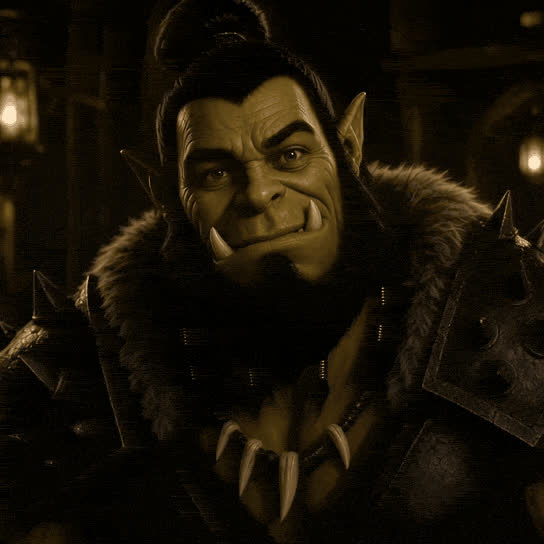
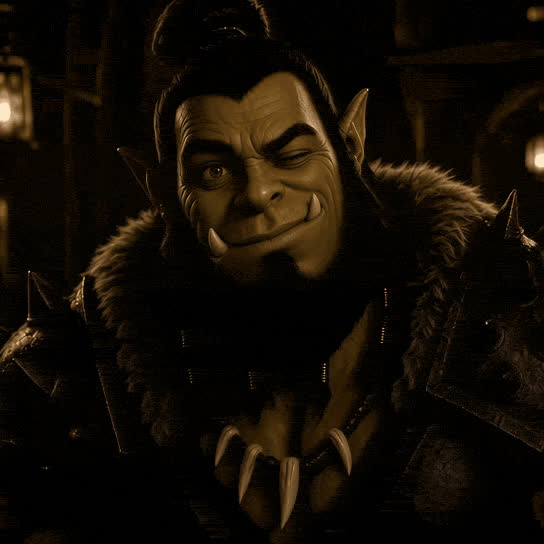
Reshoot Wink so the one-eye wink holds before the smile.

diff --git a/scripts/imagine-video.ts b/scripts/imagine-video.ts
@@ -20,6 +20,9 @@ const MODEL = "grok-imagine-video-1.5";
 const SOURCE_DIR = "/Users/orcdev/Downloads/ai images";
 const VIDEO_DIR = "/tmp/orc-grok-videos";
 const DURATION_SECONDS = 4;
+const DURATIONS: Record<string, number> = {
+  wink: 8,
+};
 const POLL_MS = 5000;
 const SKIP_SLUGS = new Set(["orc-smile"]);
 
@@ -118,7 +121,7 @@ const PROMPTS: Record<string, string> = {
   wave:
     "The orc waves hello with his raised hand, a warm friendly smile holding, a couple of waves. Locked camera.",
   wink:
-    "Both eyes start open, a small smile. Then only one eyelid closes for a short wink while the other eye stays open. Then both eyes open and he holds a warm smile. Not a blink, not both eyes closing. Only one wink. Locked camera, no zoom.",
+    "This frame is already a one-eye wink. Hold that exact wink for most of the clip: the closed eye stays fully shut, the open eye stays wide open and looks at the camera, sly smile holding. Only near the end, open the closed eye so both eyes are open and he smiles. Never close the open eye. Not a blink. Mouth stays closed. Locked camera, no zoom.",
   working:
     "The orc types on the laptop, fingers moving, screen glow on his face, a focused blink. Locked camera.",
 };
@@ -266,12 +269,13 @@ const probeSize = async (
 const startGeneration = async (
   imageDataUrl: string,
   prompt: string,
-  ratio: string
+  ratio: string,
+  duration: number
 ): Promise<string> => {
   const response = await fetch(`${API_BASE}/videos/generations`, {
     body: JSON.stringify({
       aspect_ratio: ratio,
-      duration: DURATION_SECONDS,
+      duration,
       image: { url: imageDataUrl },
       model: MODEL,
       prompt,
@@ -388,7 +392,8 @@ const generateOne = async (gif: CatalogGif, input: string): Promise<void> => {
   const requestId = await startGeneration(
     imageDataUrl,
     prompt,
-    aspectRatio(size.width, size.height)
+    aspectRatio(size.width, size.height),
+    DURATIONS[gif.slug] ?? DURATION_SECONDS
   );
   process.stdout.write(`  request ${requestId}\n`);
   const videoUrl = await pollVideo(requestId);
